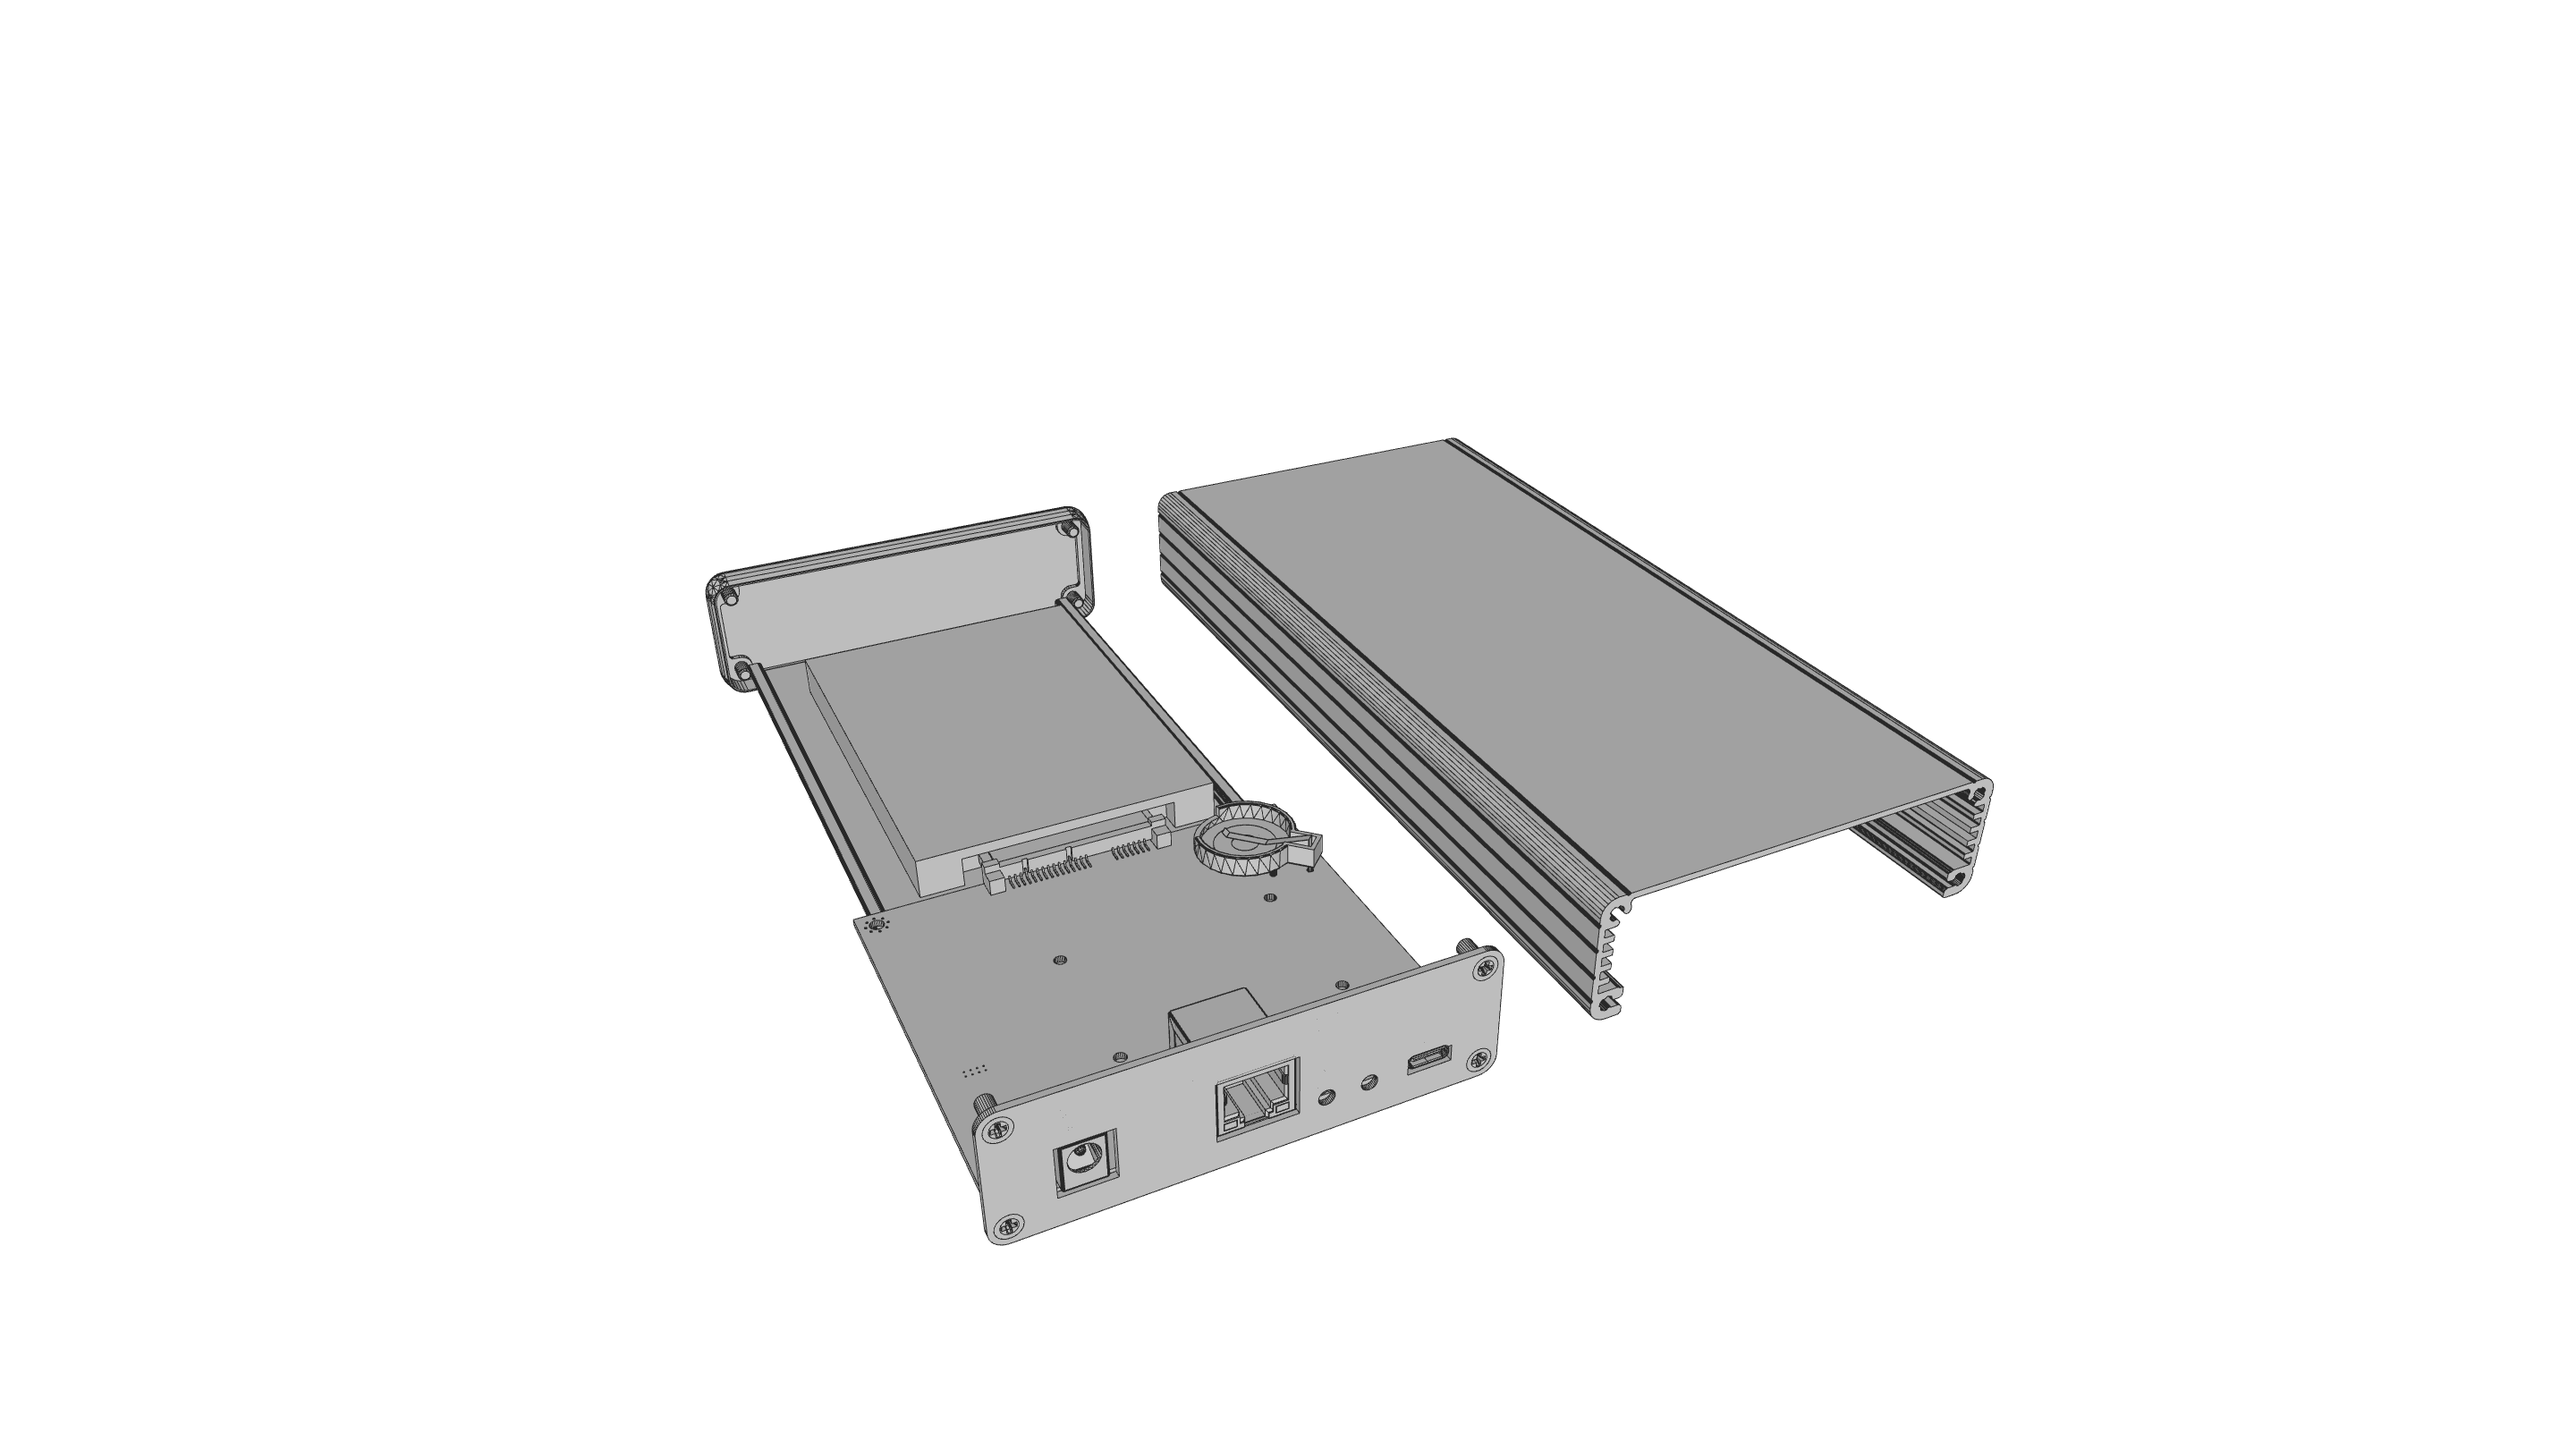
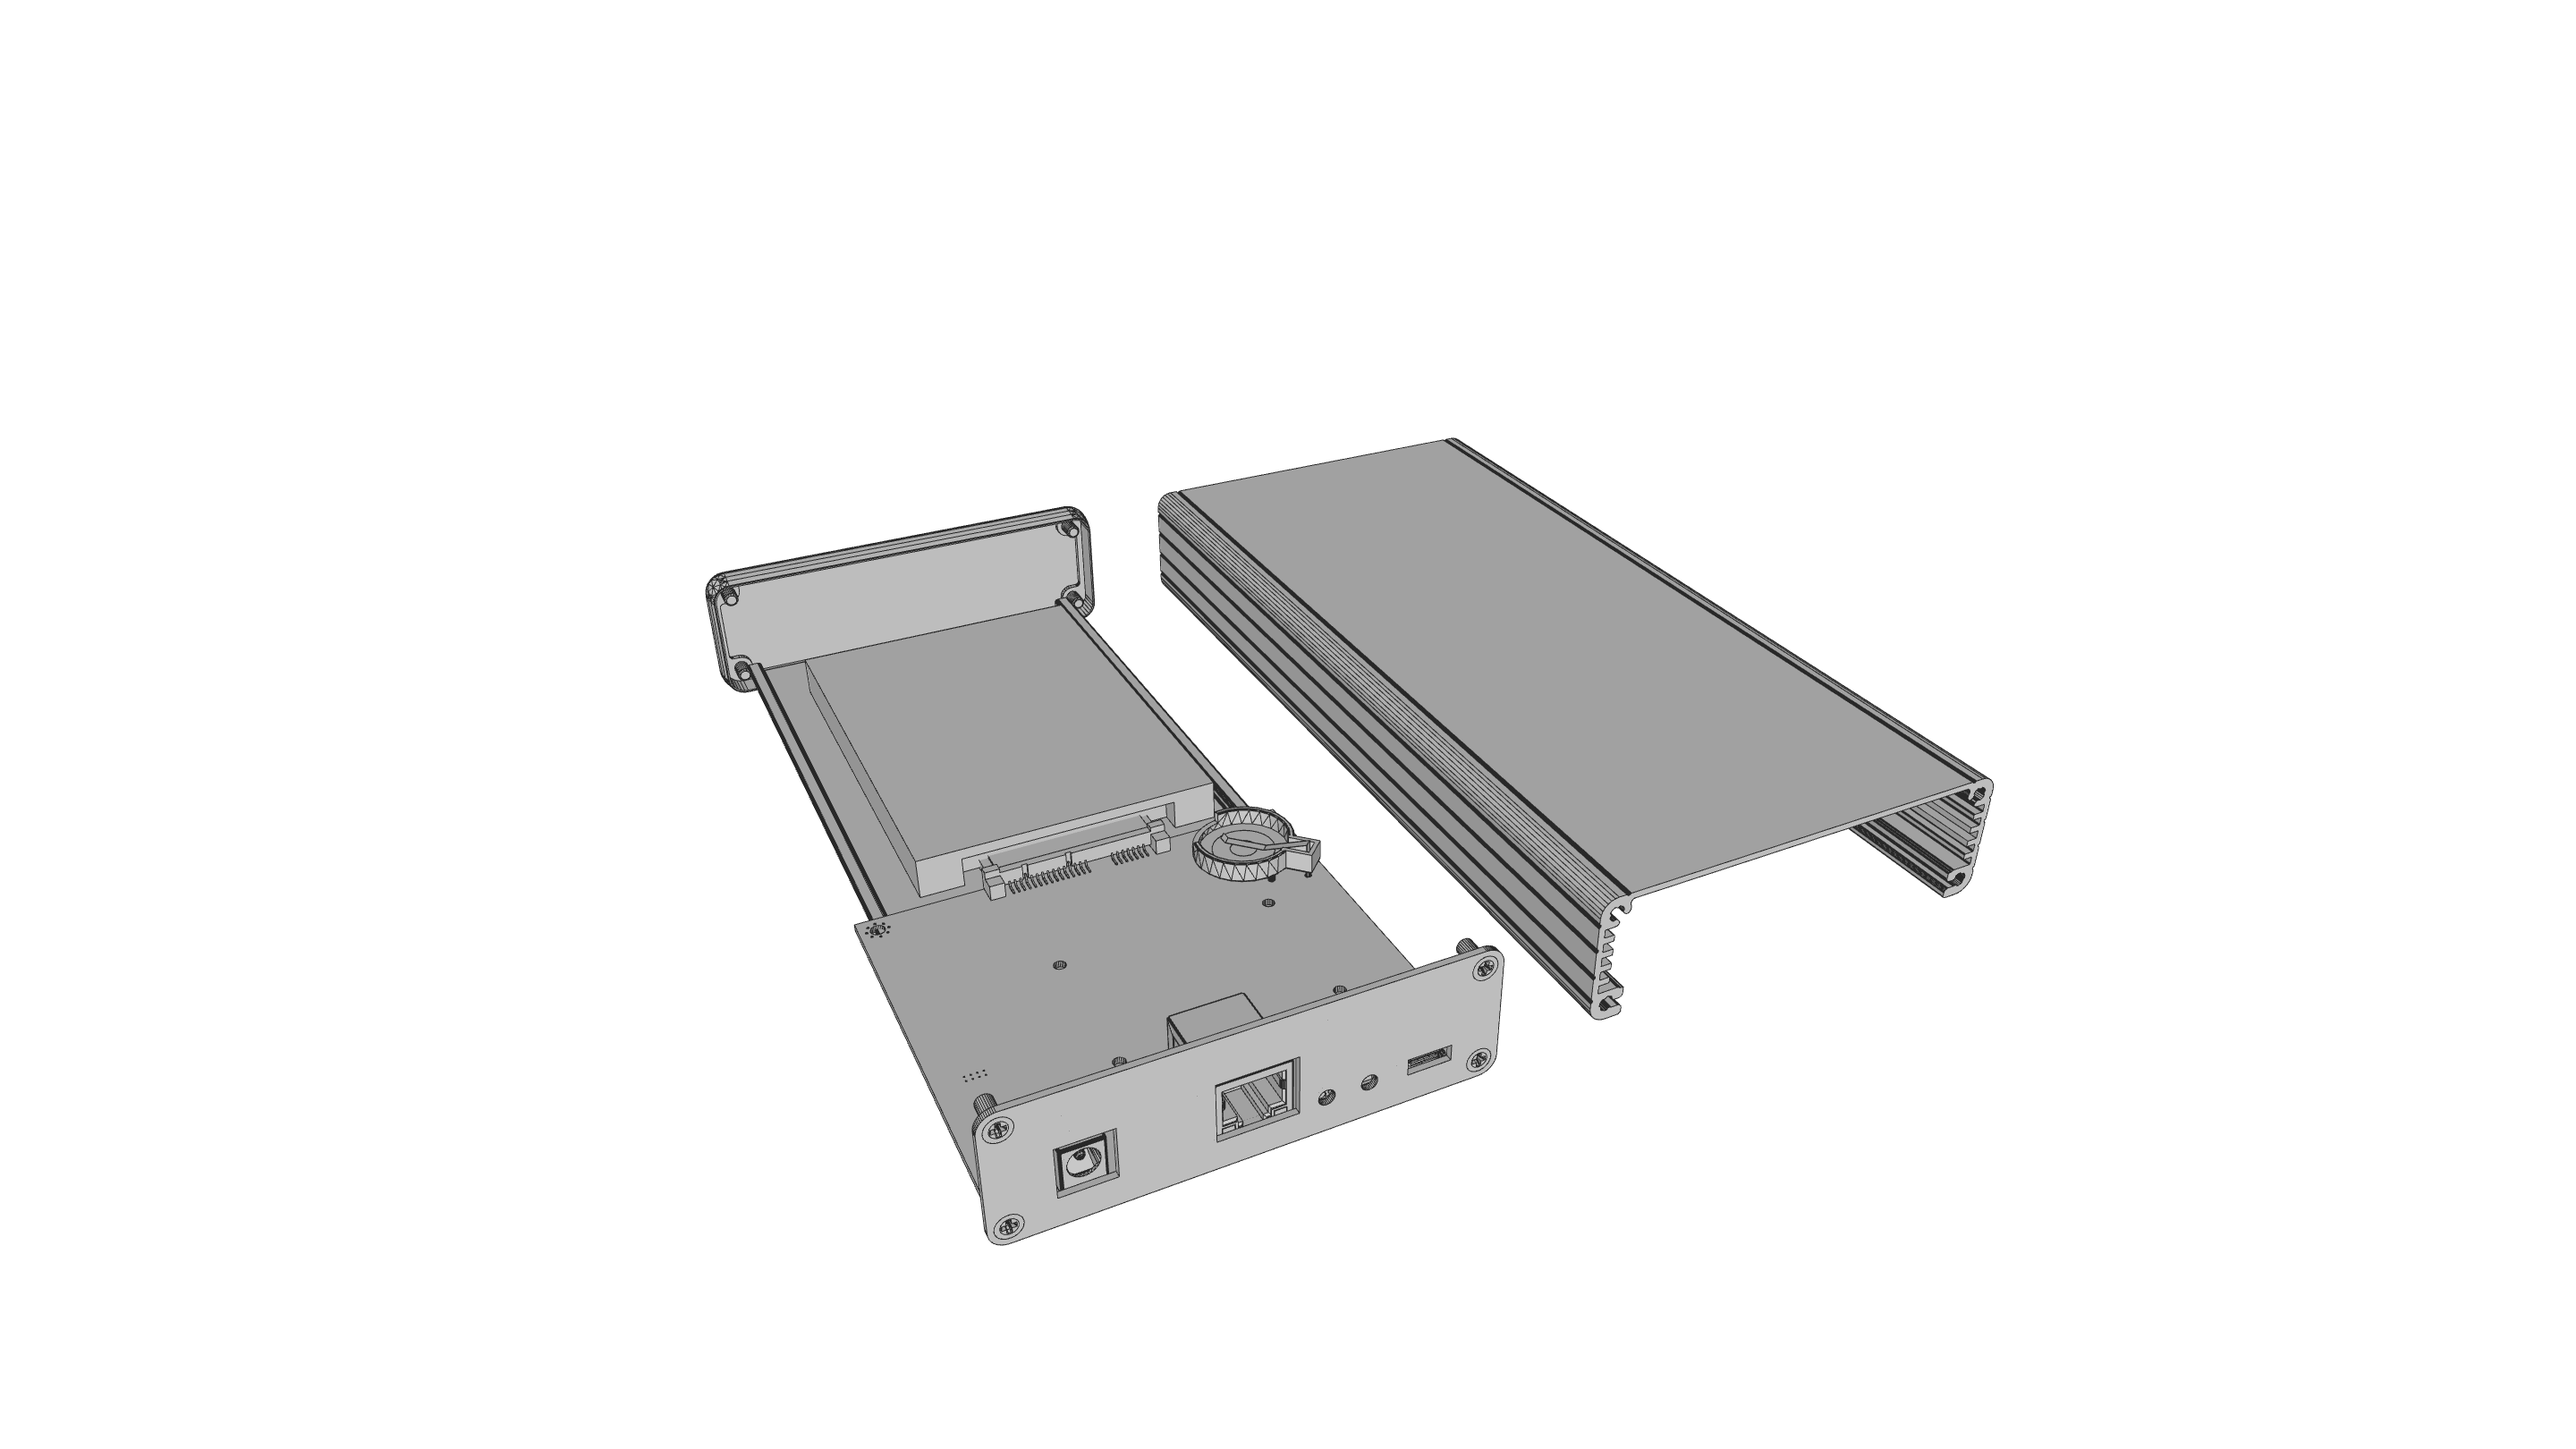
Align PCB connectors with end plate cutouts

diff --git a/mechanical/assembly.py b/mechanical/assembly.py
@@ -98,7 +98,7 @@ def build_variant(name, cfg):
     # PCB (split into categories for visual distinction)
     pcb_rot = rot(RZ(90), RX(-90), RY(180))
     pcb_pl = FreeCAD.Placement(
-        FreeCAD.Vector(70.0, belly_y + STANDOFF + 3, pcb_z_sata - 20), pcb_rot)
+        FreeCAD.Vector(70.3, belly_y + STANDOFF + 0.5, pcb_z_sata - 21.5), pcb_rot)
 
     pcb_shape = Part.read(PCB_FILE)
     board, ics, parts, conns = [], [], [], []
